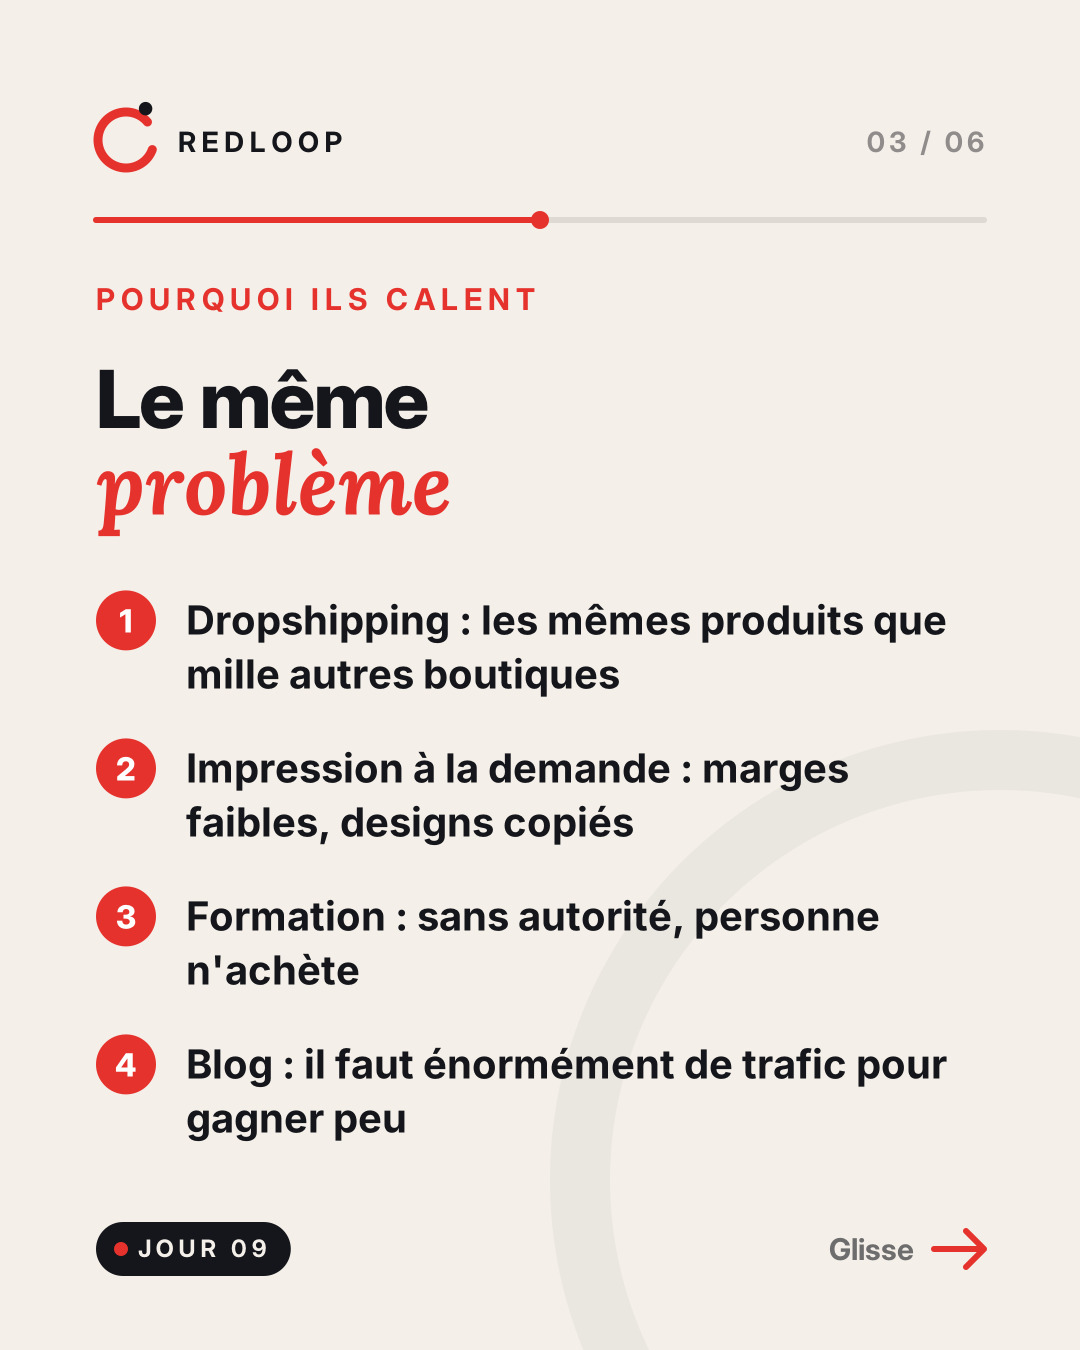
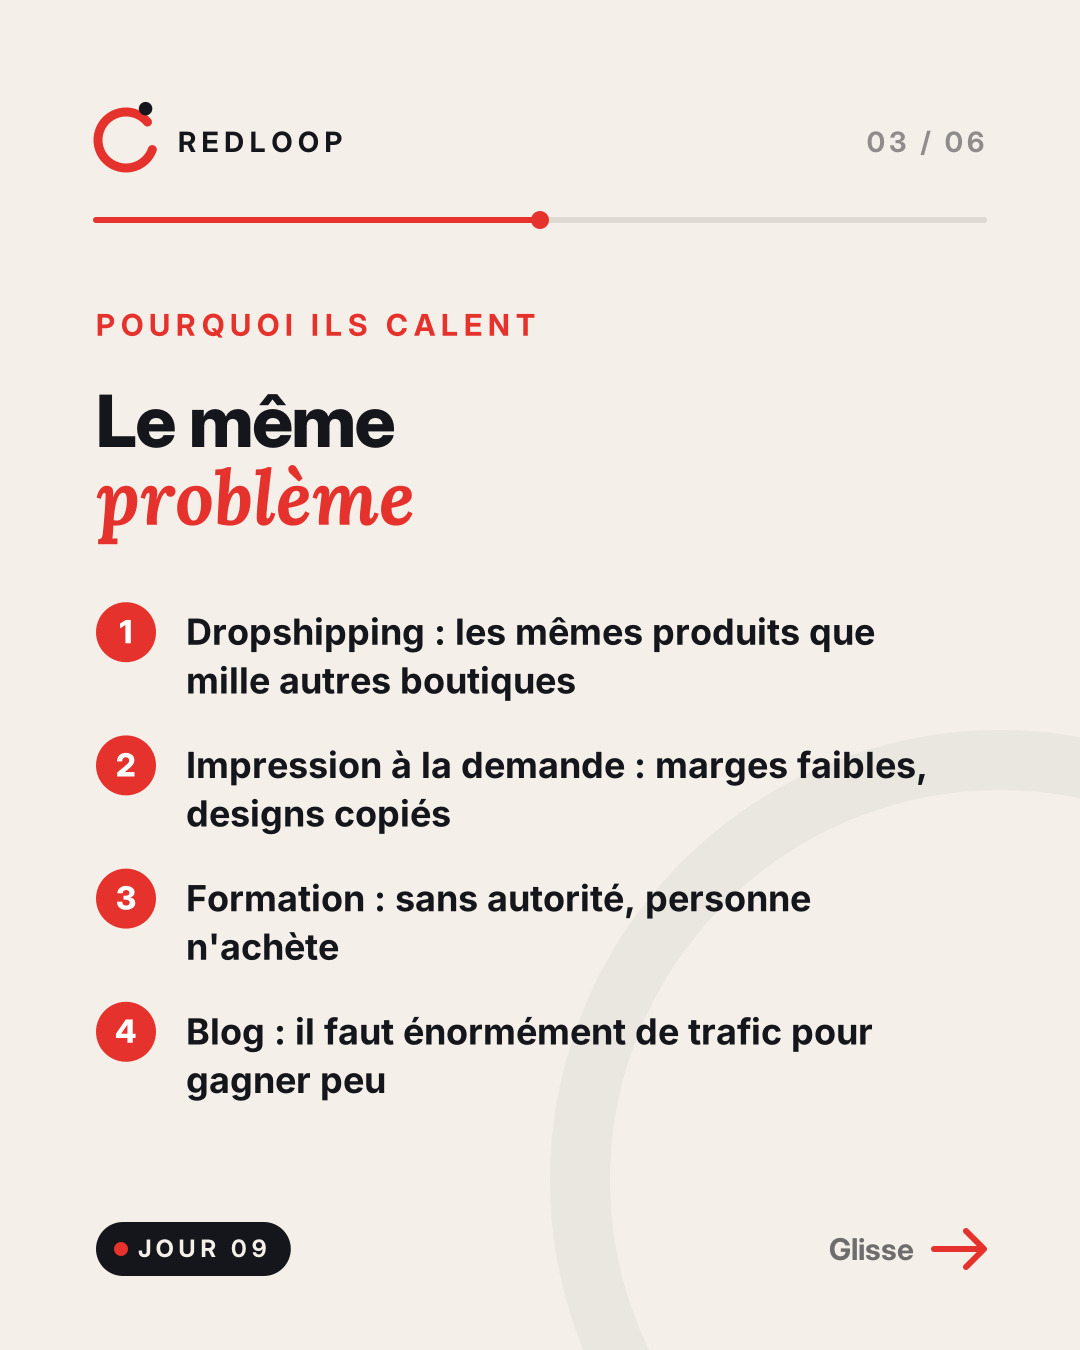
Add 'clé en main' warning carousel
Claude-Session: https://claude.ai/code/session_01MjHNHLtyk6pBPoVN5YbS1c

diff --git a/motion/carousel_cleenmain.py b/motion/carousel_cleenmain.py
@@ -1,0 +1,35 @@
+import sys; sys.path.insert(0, "/home/claude/motion")
+from carousel_erreurs import *
+
+CLE = [
+ T("À ÉVITER ABSOLUMENT", ["Le business", "*clé en main*", "qui promet", "des revenus."], "Ce qu'on te vend, et ce que disent les chiffres officiels."),
+ P("LE DISCOURS", ["Ce qu'on", "te *promet*"],
+   ["Un revenu « passif », voire garanti", "Un « système prouvé », même sans expérience",
+    "Une boutique montée et gérée pour toi", "Des captures de gains et un train de vie de luxe"],
+   "Les arguments relevés par la FTC, l'autorité américaine de protection des consommateurs."),
+ P("POUR COMPARER", ["Tes chances aux", "*jeux d'argent*"],
+   ["Paris sportifs : seul 1 joueur sur 4 a fini la Coupe du monde 2026 sans perte (ANJ)",
+    "Courses hippiques : 74,5 % des mises reversées, soit 25 centimes perdus par euro en moyenne",
+    "Trading forex et CFD : 89 % des particuliers perdants (étude AMF)"]),
+ P("ET LE CLÉ EN MAIN ?", ["Un cas *réel*", "documenté"],
+   ["Ticket d'entrée : 39 000 à 65 000 € pour une boutique Amazon « automatisée »",
+    "21 % des boutiques n'ont rien rapporté",
+    "Revenu médian sur toute la vie de la boutique : environ 6 200 €",
+    "Environ 95 % suspendues ou fermées par Amazon"],
+   "Plainte de la FTC contre une société d'« automatisation » e-commerce, 2025. Montants convertis du dollar."),
+ T("LA COMPARAISON QUI PIQUE", ["Au PMU, on", "récupère *75~%*", "de sa mise."], "En moyenne, sur la durée. C'est déjà un mauvais placement.", 124),
+ T("ET LÀ ?", ["Boutique", "clé en main :", "environ *10~à~16~%.*"], "Le revenu médian sur toute sa vie, rapporté au prix payé. Pire qu'un pari, sans être annoncé comme tel."),
+ P("ON TE VEND AUSSI", ["Les autres", "*« opportunités »*"],
+   ["Formations « business en ligne » à promesse de revenus : cible prioritaire de la DGCCRF",
+    "Pronostics payants : 36 % d'anomalies chez les sites contrôlés (DGCCRF, 2023)",
+    "Vente en réseau : la plupart des participants gagnent moins de 860 € par an (FTC)",
+    "Boutiques « IA » à revenu passif : plusieurs fermées par la FTC"]),
+ P("SIGNAUX D'ALERTE", ["Fuis si on", "te *promet*"],
+   ["Des revenus garantis ou « passifs »", "Des résultats sans expérience ni effort",
+    "Des captures de gains et du luxe à l'écran", "De l'urgence : « plus que 3 places »",
+    "Des coachings à plusieurs milliers d'euros en plus"]),
+ T("LA RÈGLE", ["Personne ne peut", "te *garantir*", "de gagner", "de l'argent."], "Une promesse de gain rapide et facile est toujours un mensonge. C'est la FTC qui le dit."),
+ T("À TOI", ["Tu t'es déjà", "fait *avoir* ?"], "Raconte en commentaire, sans citer de nom. Ça peut éviter à quelqu'un de tomber dans le piège.", 128),
+]
+if __name__ == "__main__":
+    render("cleenmain", CLE, 15, "/home/claude/motion/out/cle", "/home/claude/redloop-visualx/posts")

diff --git a/motion/carousel_erreurs.py b/motion/carousel_erreurs.py
@@ -28,16 +28,21 @@ def T(tag, lines, sub=None, size=118):
 
 def P(tag, title, items, note=None):
     def f(ctx):
-        sz = fit(ctx, title, 80); wrapped = [wrap(ctx, it, 40, MAXW - 110, "medium") for it in items]
-        h = 80 + len(title) * sz * 1.08 + 100 + sum(len(w) * 54 + 40 for w in wrapped) + (100 if note else 0)
+        sz = fit(ctx, title, 80); fs = 40
+        while True:
+            lh = fs * 1.35; gap = fs
+            wrapped = [wrap(ctx, it, fs, MAXW - 110, "medium") for it in items]
+            h = 80 + len(title) * sz * 1.08 + 100 + sum(len(w) * lh + gap for w in wrapped) + (100 if note else 0)
+            if h <= 880 or fs <= 30: break
+            fs -= 2; sz = min(sz, 72)
         y = max(310, 300 + (880 - h) / 2 + 30)
         caps(ctx, MX, y, tag, 30, RED); y += 50 + sz * 0.85
         kinetic(ctx, 99, title, MX, y, sz); y += (len(title) - 1) * sz * 1.08 + 120
         for i, w in enumerate(wrapped, 1):
-            disk(ctx, MX + 30, y - 14, 30, RED); n = str(i)
-            text(ctx, MX + 30 - width(ctx, n, 32, "display", 0) / 2, y - 2, n, 32, WHITE, 1, "display", 0)
-            for j, l in enumerate(w): text(ctx, MX + 90, y + j * 54, l, 40, INK, 1, "medium", 0)
-            y += len(w) * 54 + 40
+            disk(ctx, MX + 30, y - fs * 0.35, 30, RED); n = str(i)
+            text(ctx, MX + 30 - width(ctx, n, 32, "display", 0) / 2, y - fs * 0.35 + 11, n, 32, WHITE, 1, "display", 0)
+            for j, l in enumerate(w): text(ctx, MX + 90, y + j * lh, l, fs, INK, 1, "medium", 0)
+            y += len(w) * lh + gap
         if note:
             for l in wrap(ctx, note, 28, MAXW, "text"): text(ctx, MX, y + 20, l, 28, INK, .55, "text", 0); y += 40
     return f
